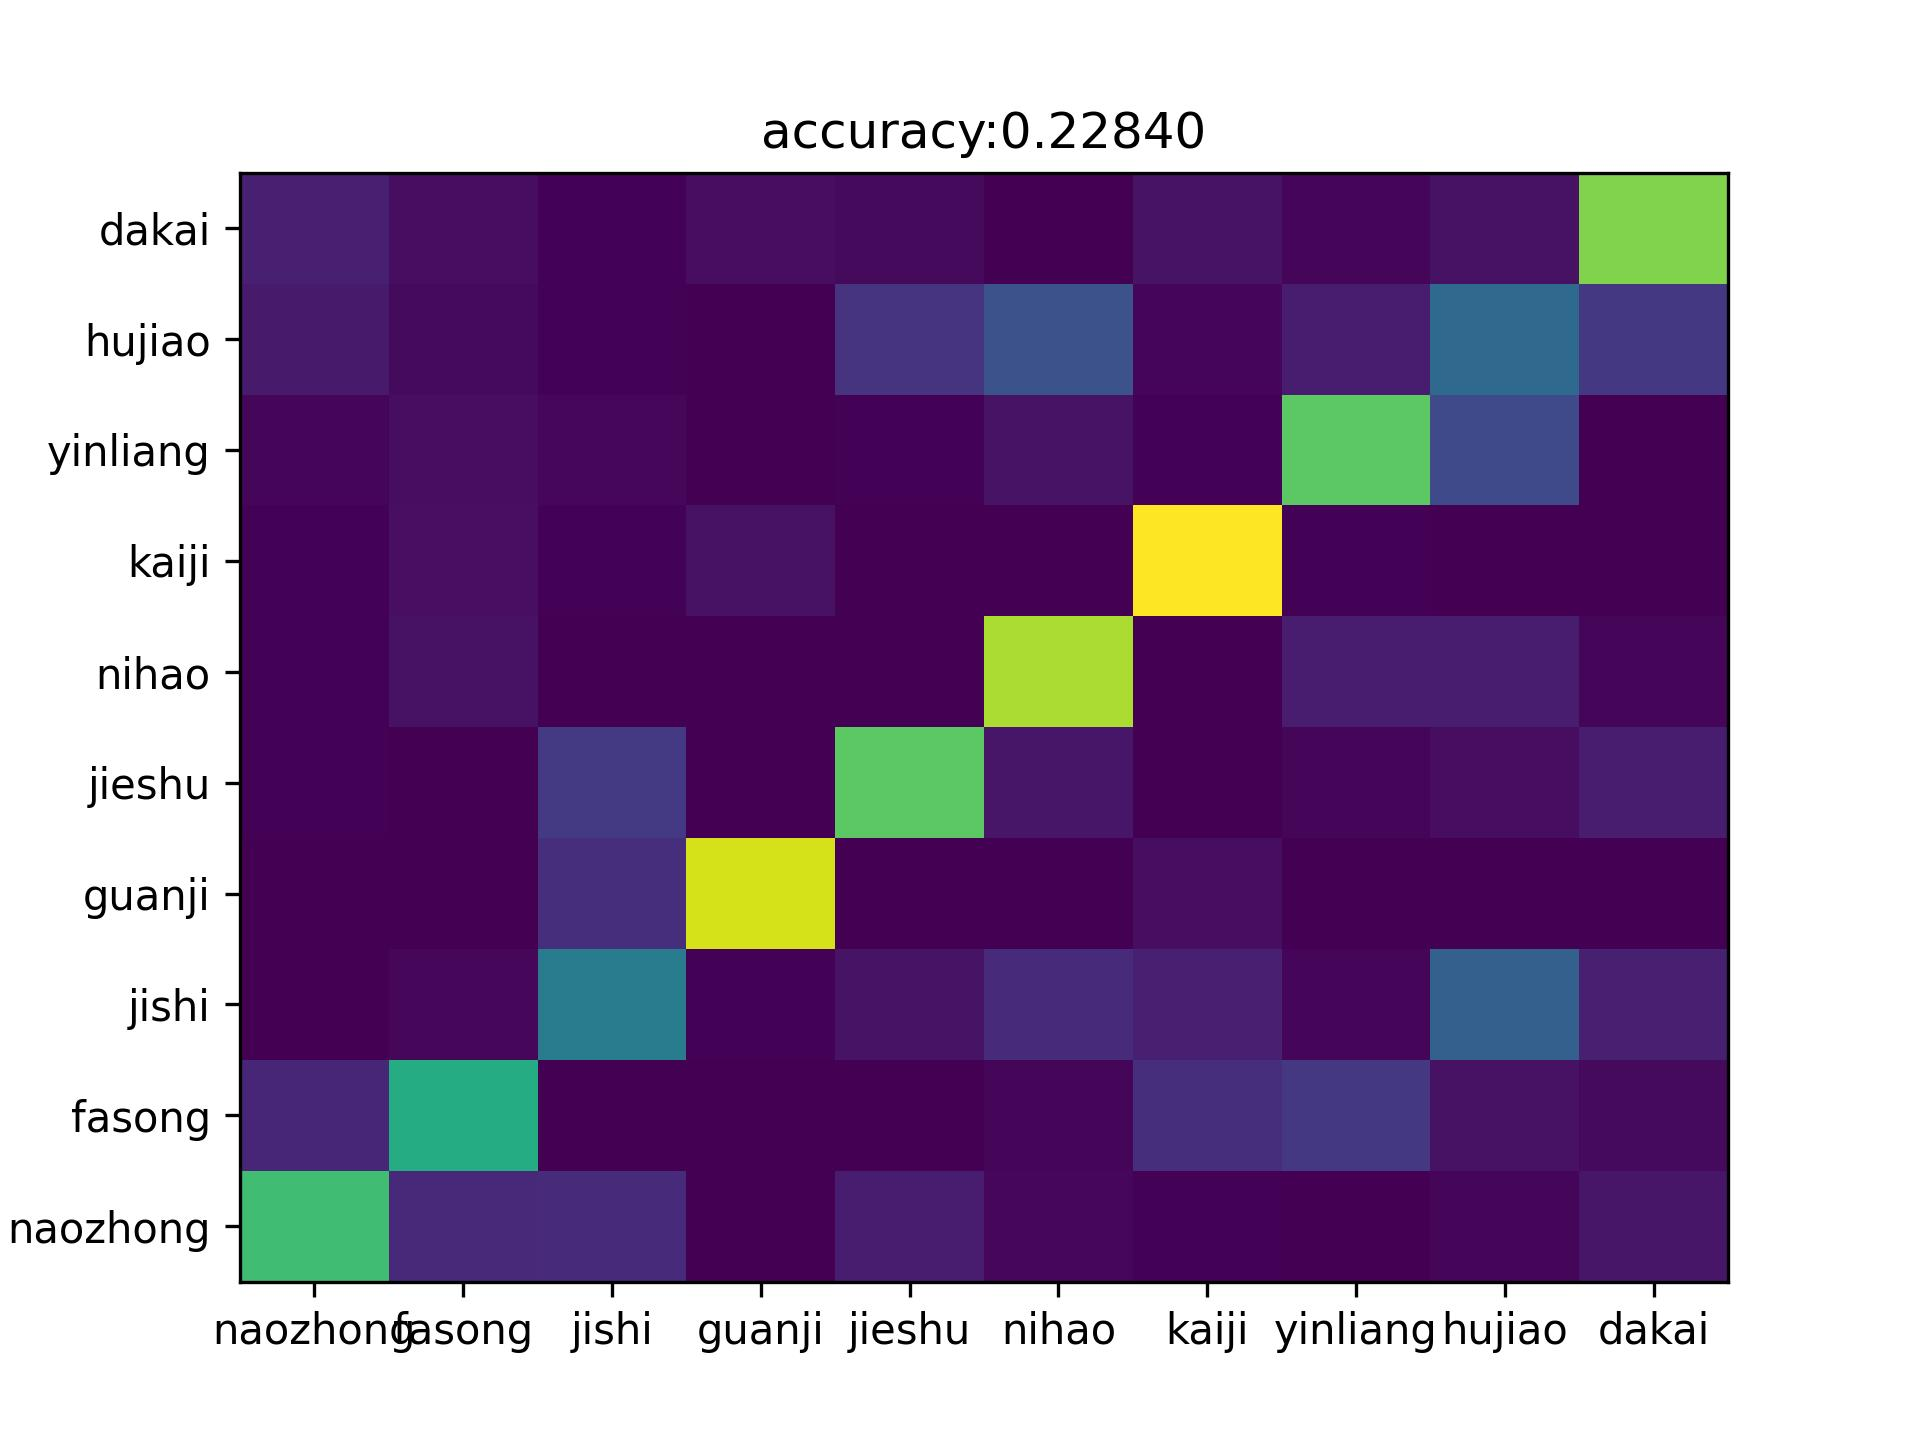
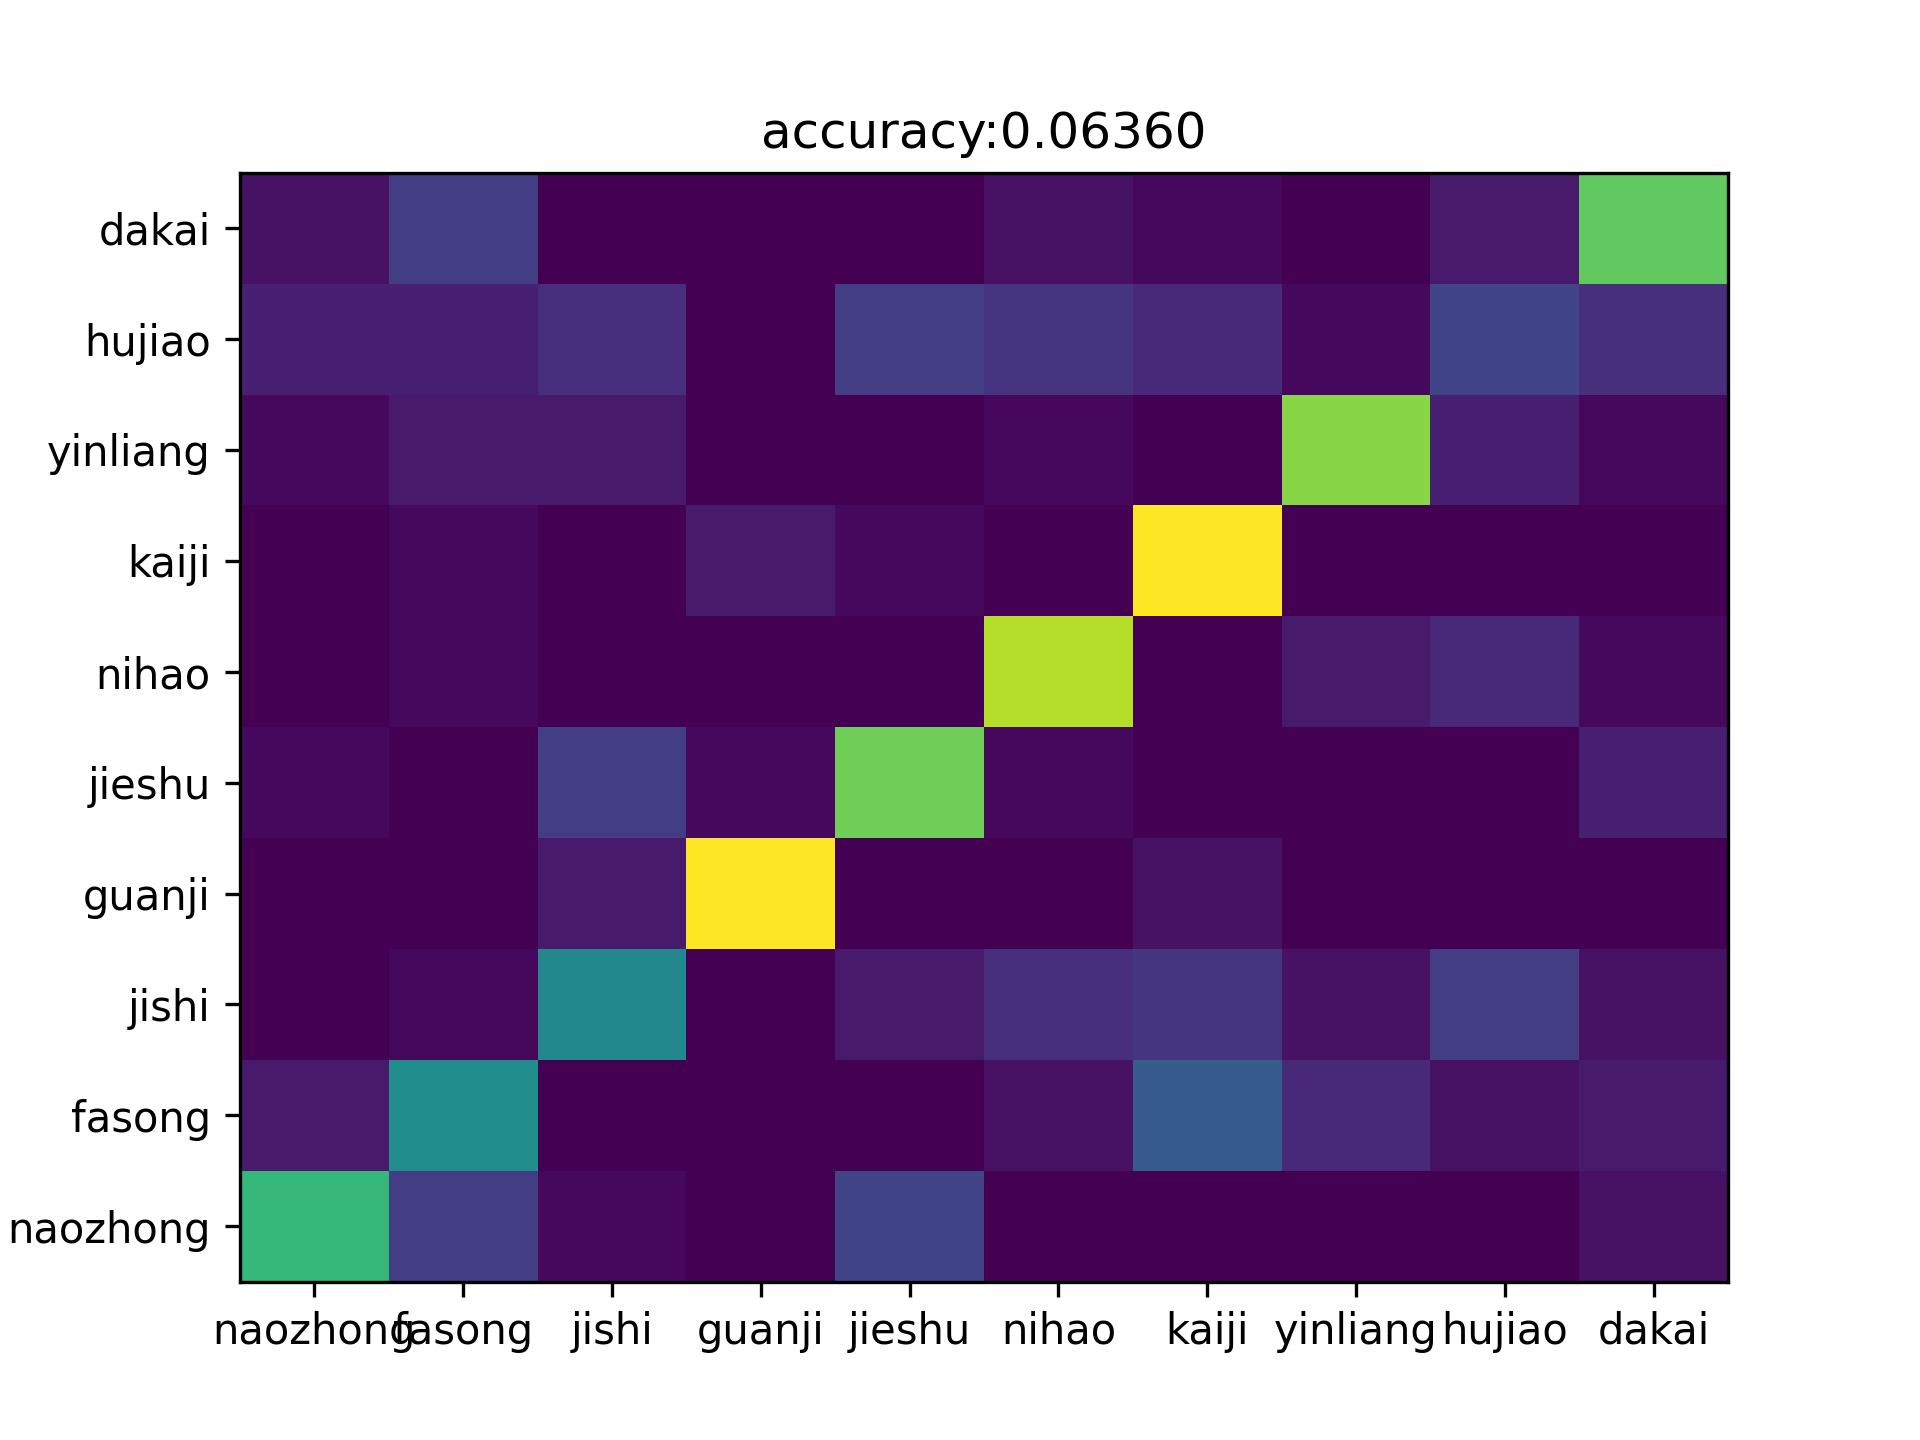
继续训练

diff --git a/echospreech/trainandtest.py b/echospreech/trainandtest.py
@@ -76,8 +76,8 @@ def train(foi,name,epochs = 10):
     criterion = nn.CrossEntropyLoss()
     #optimizer = optim.SGD(model.parameters(), lr=0.01, momentum=0.9)
     optimizer = optim.Adam(model.parameters(), lr=0.01)
-    #lr_lambda = lambda epoch: 0.01-epoch*(0.01-0.0001)/(epochs*1.0)
-    #scheduler = optim.lr_scheduler.LambdaLR(optimizer=optimizer,lr_lambda=lr_lambda)
+    lr_lambda = lambda epoch: 0.01-epoch*(0.01-0.0001)/(epochs*1.0)
+    scheduler = optim.lr_scheduler.LambdaLR(optimizer=optimizer,lr_lambda=lr_lambda)
     for epoch in range(epochs):
 
 
@@ -101,7 +101,7 @@ def train(foi,name,epochs = 10):
                 la.append(c)
                 running_loss = 0.0
         #print("第%d个epoch的学习率：%f" % (epoch, optimizer.param_groups[0]['lr']))
-        #scheduler.step()
+        scheduler.step()
         
     torch.save(model.state_dict(), 'echospreech/ckpt/es_lenet_150'+str(foi)+'.pth')
     #torch.save(model.state_dict(), 'mnist_cnn/ckpt/mnist_resnet.pth')
@@ -123,15 +123,16 @@ def train(foi,name,epochs = 10):
     return table,c
 
 
-for i in range(100):
+for i in range(10):
+    name = 'resnet18_12_s_Adam_sch_'
     model = resnet18(num_classes=num_classe).to(device)
-    table1,c1 = train(i,'resnet18_15_s_1_',25)
+    table1,c1 = train(i,name,12)
     table += table1
     c += c1
     plt.figure()
     plt.pcolormesh(names,names,table)
-    plt.title('accuracy:%.5f'%(c/100))
-    plt.savefig('table'+'resnet18_15_s_2_'+'.jpg',dpi = 300)
+    plt.title('accuracy:%.5f'%(c/10))
+    plt.savefig('table'+name+'.jpg',dpi = 300)
     plt.close
 
 print('Finished Training')

diff --git a/FMCW.py b/FMCW.py
@@ -58,6 +58,7 @@ class FMCW():
         self.inter_num = 50
         self.cycle_num = 200
         self.num_recode = 0
+        self.wave_total = np.zeros((self.num_recode,4,self.cycle_num))
 
 
 
@@ -394,7 +395,8 @@ class FMCW():
         self.get_data()
 
         ## 分割信号,得到(self.num_record,4,self.cycle-num_self.self.inter_num)的信号数组
-        
+        self.wave_total = np.zeros((self.num_recode,4,self.cycle_num))
+
 
         pass
 

diff --git a/测试/slipe.py b/测试/slipe.py
@@ -1,0 +1,13 @@
+import numpy as np
+a = np.linspace(1,10000,5000)
+b = np.linspace(0,9999,5000)
+c  = np.zeros((2,5000))
+c[0] = a
+c[1] = b
+d = np.zeros((25,2,200))
+for i in range(2):
+    d[:,i,:] = np.reshape(c[i],(25,200))
+
+
+
+print()
